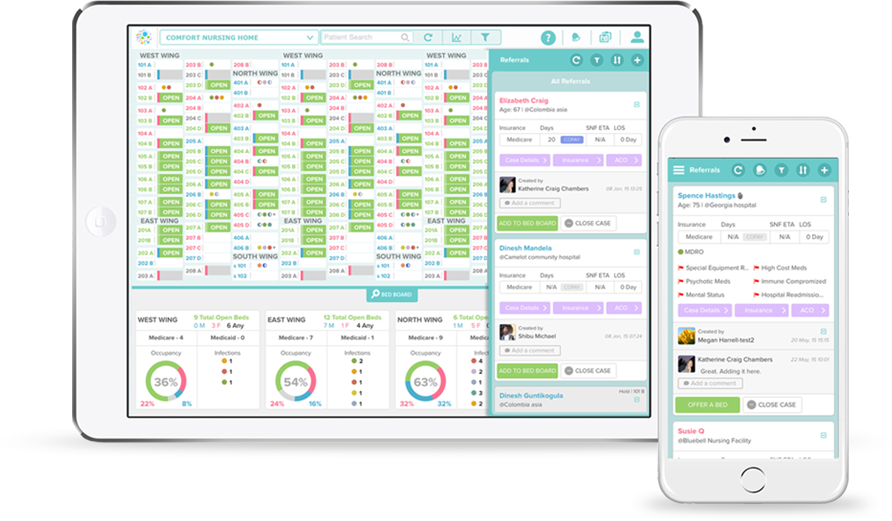
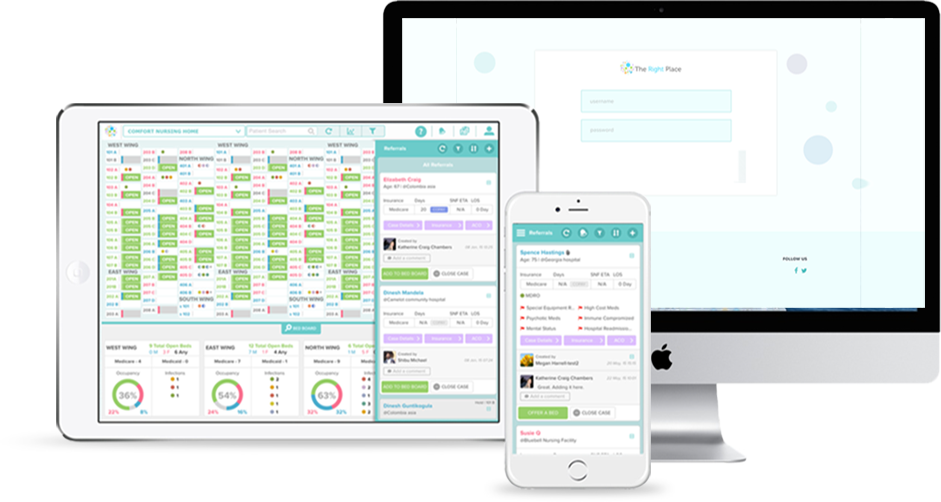
Add background video

diff --git a/desktop/trp/marketingsite/wp-content/themes/sage-master/assets/styles/pages/_home.scss b/desktop/trp/marketingsite/wp-content/themes/sage-master/assets/styles/pages/_home.scss
@@ -1,13 +1,86 @@
 // hero section
 
+#trp-video {
+	top: -9999px;
+	bottom: -9999px;
+	left: -9999px;
+	right: -9999px;
+	margin: auto;
+	position: absolute;
+	@media (max-width: 1920px) {
+		width: 100%;
+	}
+}
+
+.trp-hero-overlay {
+	background-color: rgba(184, 217, 234, 0.5);
+	position: absolute;
+	width: 100%;
+	height: 100%;
+	z-index: 1;
+}
+
+.trp-home-intro {
+	color: #40474f;
+	img {
+		width: 100%;
+		margin: 100px 0 93px 0;
+		@media (max-width: $screen-md-min) {
+			margin: 0 0 70px 0;
+		}
+	}
+	h2 {
+		font-size: 50px;
+		font-family: ProximaNovaLight;
+		margin-bottom: 50px;
+	}
+	p {
+		font-family: ProximaNovaLight;
+		font-size: 20px;
+	}
+	strong {
+		font-family: ProximaNovaBold;
+	}
+	.trp-home-intro-separator {
+		border-top: 7px solid #f1f9f9; 
+	}
+}
+
+.trp-intro-text {
+	margin: 100px 0 93px 0;
+}
+
 .page-template-page-templateshome-php {
 	header {
 		background-color: #f5fefe;
 		height: 150px;
 	}
+	.trp-home-masthead-text {
+		width: 100%;
+		text-align: center;
+		z-index: 1;
+	}
 	.trp-home-masthead {
 		background-color: #f5fefe;
 		position: relative;
+		height: 700px;
+		overflow: hidden;
+		.row {
+			width: 100%;
+			@media (max-width: $screen-md-min) {
+				width: auto;
+			}
+			text-align: center;
+			height: 700px;
+			h1 {
+				font-size: 66px;
+				color: #fff;
+				font-family: ProximaNovaLight;
+				@media (max-width: $screen-md-min) {
+					font-size: 48px;
+				}
+			}
+		}
 		img {
 			width: 100%;
 			margin: 120px 0 70px 0;
@@ -24,7 +97,7 @@
 			display: block;
 		}
 		a {
-			float: left;
+			float: none;
 		}
 		h1 {
 			margin-top: 0;
@@ -59,16 +132,23 @@
 	}
 }
 
+.trp-features-p {
+	margin-bottom: 70px;
+}
+
 .trp-features {
 	position: relative;
 	margin-bottom: 66px;
-	margin-top: 110px;
+	margin-top: 20px;
+	@media (max-width: 991px) {
+		margin-bottom: 0;
+	}
 	h2 {
 		font-size: 50px;
 		font-family: ProximaNovaLight;
 		color: #40474f;
 		line-height: 56px;
-		margin-bottom: 40px;
+		margin-top: 100px;
 	}
 	p {
 		font-size: 20px;
@@ -80,7 +160,6 @@
 		}
 	}
 	.row {
-		margin-top: 70px;
 	}
 	.trp-feature {
 		position: absolute;
@@ -92,9 +171,34 @@
 		margin: 0 15px;
 		color: #fff;
 		font-size: 20px;
-		padding-top: 34px;
+		padding-top: 50px;
+		@media (max-width: 991px) {
+			padding-top: 85px;
+			max-width: 400px;
+			max-height: 400px;
+			display: block;
+			margin-left: auto;
+			margin-right: auto;
+		}
+		@media (max-width: $screen-sm-min) {
+			max-width: 290px;
+			padding-top: 35px;
+			max-height: 290px;
+		}
+		@media (max-width: 380px) {
+			max-width: 240px;
+			max-height: 240px;
+			padding-top: 27px;
+		}
 		img {
 			max-width: 175px;
+			max-height: 80px;
+			@media (max-width: $screen-lg-min) {
+				max-height: 55px;
+			}
+			@media (max-width: 380px) {
+				max-height: 35px;
+			}
 		}
 		a {
 			border: 2px solid #fff;
@@ -102,6 +206,13 @@
 			padding: 11px 20px;
 			color: #fff;
 			display: inline-block;
+			@media (max-width: $screen-lg-min) {
+				font-size: 16px;
+			}
+			@media (max-width: 380px) {
+				font-size: 12px;
+				padding: 8px 15px;
+			}
 			&:hover,
 			&:active,
 			&:focus {
@@ -112,6 +223,12 @@
 			font-size: 22px;
 			font-family: ProximaNovaBold;
 			text-transform: uppercase;
+			@media (max-width: $screen-lg-min) {
+				font-size: 18px;
+			}
+			@media (max-width: 380px) {
+				font-size: 15px;
+			}
 		}
 		p {
 			color: #fff;
@@ -119,10 +236,28 @@
 			font-size: 18px;
 			padding: 0 30px;
 			margin-bottom: 25px;
+			@media (max-width: $screen-lg-min) {
+				font-size: 16px;
+				padding: 0 15px;
+			}
+			@media (max-width: 380px) {
+				font-size: 14px;
+				margin-bottom: 12px;
+			}
 		}
 	}
 	.trp-feature-helper {
 		margin-top: 100%;
+		@media (max-width: 991px) {
+			margin-top: 450px;
+			//margin-top: 65%;
+		}
+		@media (max-width: $screen-sm-min) {
+			margin-top: 340px;
+		}
+		@media (max-width: 380px) {
+			margin-top: 270px;
+		}
 	}
 }
 

diff --git a/desktop/trp/marketingsite/wp-content/themes/sage-master/assets/styles/components/_buttons.scss b/desktop/trp/marketingsite/wp-content/themes/sage-master/assets/styles/components/_buttons.scss
@@ -11,6 +11,10 @@
 	float: right;
 	font-size: 24px;
 	font-family: ProximaNovaRegular;
+	@media (max-width: $screen-md-min) {
+		font-size: 18px;
+		padding: 10px 30px;
+	}
 	&:hover,
 	&:active,
 	&:focus {

diff --git a/desktop/trp/marketingsite/wp-content/themes/sage-master/page-templates/home.php b/desktop/trp/marketingsite/wp-content/themes/sage-master/page-templates/home.php
@@ -3,10 +3,13 @@
 ?>
 
 <div class="trp-home-masthead">
-	<div class="trp-home-masthead-bottom"></div>
+	<div class="trp-hero-overlay"></div>
+	<video id="trp-video" muted autoplay loop poster="<?= get_stylesheet_directory_uri() ?>/assets/images/video-poster.jpg">
+		<source src="<?= get_stylesheet_directory_uri() ?>/assets/images/trp-video.mp4">
+	</video>
 	<div class="container">
 		<div class="row">
-			<div class="col-md-4">
+			<div class="col-md-10 col-md-offset-2 col-sm-12 col-sm-offset-0 trp-home-masthead-text">
 				<h1>
 					Find the right bed for your patient. <strong>The Right Place.</strong>
 					<a href="#" class="trp-button">
@@ -14,25 +17,45 @@
 					</a>
 				</h1>
 			</div>
-			<div class="col-md-offset-1 col-md-7">
-				<img src="<?= get_stylesheet_directory_uri() ?>/assets/images/hero.png" alt="">
-			</div>
 		</div>
 	</div>
 </div>
 
+<div class="trp-home-intro">
+	<div class="container">
+		<div class="row">
+			<div class="col-md-5">
+				<div class="trp-intro-text">
+					<h2>
+						40% of patients discharged from the hospital require post-acute care
+					</h2>
+					<p>
+						 Introducing <strong>The Right Place</strong>: a communication solution that empowers hospitals and post-acute providers to match the right patient in the right place of care quickly and efficiently.
+					</p>
+				</div>
+			</div>
+			<div class="col-md-7">
+				<img src="<?= get_stylesheet_directory_uri() ?>/assets/images/hero.png" alt="">
+			</div>
+		</div>
+	</div>
+	<hr class="trp-home-intro-separator">
+</div>
+
 <div class="trp-features container text-center">
-	<h2>
-		40% of patients discharged from the hospital require post-acute care
-	</h2>
-	<p>
-		 Introducing <strong>The Right Place</strong>: a communication solution that empowers hospitals and post-acute providers to match the right patient in the right place of care quickly and efficiently.
-	</p>
-	<div class="row">
-		<div class="col-sm-4 col-xs-12 trp-features-hospitals">
+		<h2>
+			The Right Place for your facility
+		</h2>
+		<div class="row">
+			<p class="trp-features-p col-md-4 col-md-offset-4">
+				We built custom applications for each type of facility and their specific needs.
+			</p>
+		</div>
+		<div class="row">
+		<div class="col-md-4 col-xs-12 trp-features-hospitals">
 			<div class="trp-feature-helper"></div>
 			<div class="trp-feature">
-				<img src="<?= get_stylesheet_directory_uri() ?>/assets/images/1.jpg" alt="">
+				<img src="<?= get_stylesheet_directory_uri() ?>/assets/images/hospitals-logo.png" alt="">
 				<h4>
 					HOSPITALS
 				</h4>
@@ -44,10 +67,10 @@
 				</a>
 			</div>
 		</div>
-		<div class="col-sm-4 col-xs-12 trp-features-facilities">
+		<div class="col-md-4 col-xs-12 trp-features-facilities">
 			<div class="trp-feature-helper"></div>
 			<div class="trp-feature">
-				<img src="<?= get_stylesheet_directory_uri() ?>/assets/images/2.jpg" alt="">
+				<img src="<?= get_stylesheet_directory_uri() ?>/assets/images/nursing-logo.png" alt="">
 				<h4>
 					SKILLED NURSING FACILITIES
 				</h4>
@@ -59,10 +82,10 @@
 				</a>
 			</div>
 		</div>
-		<div class="col-sm-4 col-xs-12 trp-features-orgs">
+		<div class="col-md-4 col-xs-12 trp-features-orgs">
 			<div class="trp-feature-helper"></div>
 			<div class="trp-feature">
-				<img src="<?= get_stylesheet_directory_uri() ?>/assets/images/3.jpg" alt="">
+				<img src="<?= get_stylesheet_directory_uri() ?>/assets/images/aco.png" alt="">
 				<h4>
 					Accountable Care Orgs
 				</h4>
@@ -99,7 +122,7 @@
 					</li>
 				</ul>
 			</div>
-			<div class="col-md-4">
+			<div class="col-md-4 col-xs-12 trp-aco-section-2-img">
 				<img src="<?= get_stylesheet_directory_uri() ?>/assets/images/mobile-app.png" alt="">
 			</div>
 		</div>
